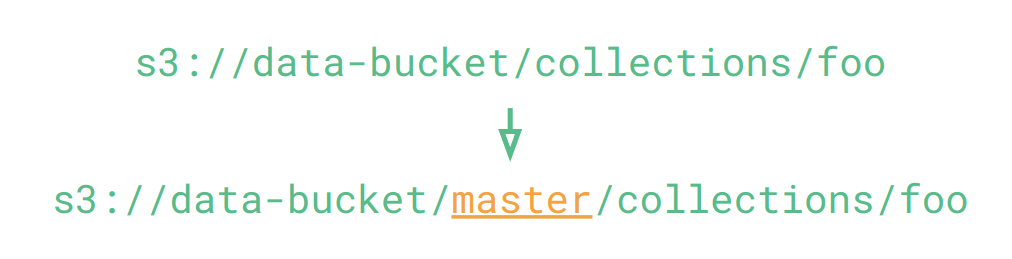
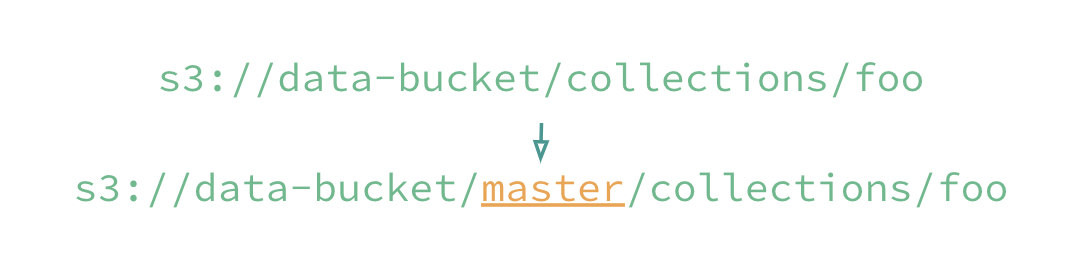
docs: new s3-branches image

Changed region(s): [[0.0306, 0.6486, 0.9802, 0.8649], [0.1225, 0.1544, 0.8883, 0.3707], [0.4901, 0.4324, 0.5208, 0.6178]]

diff --git a/docs/index.md b/docs/index.md
@@ -26,7 +26,7 @@ This branching model makes your data lake ACID compliant by allowing changes to 
 
 Since lakeFS is compatible with the S3 API, all popular applications will work without modification, by simply adding the branch name to the object path:
 
-![lakeFS s3 addressing](assets/img/s3_branch.png)
+<img src="assets/img/s3_branch.png" alt="lakeFS s3 addressing" width="60%" height="60%" />
 
 ## Here's why you need it:
 
